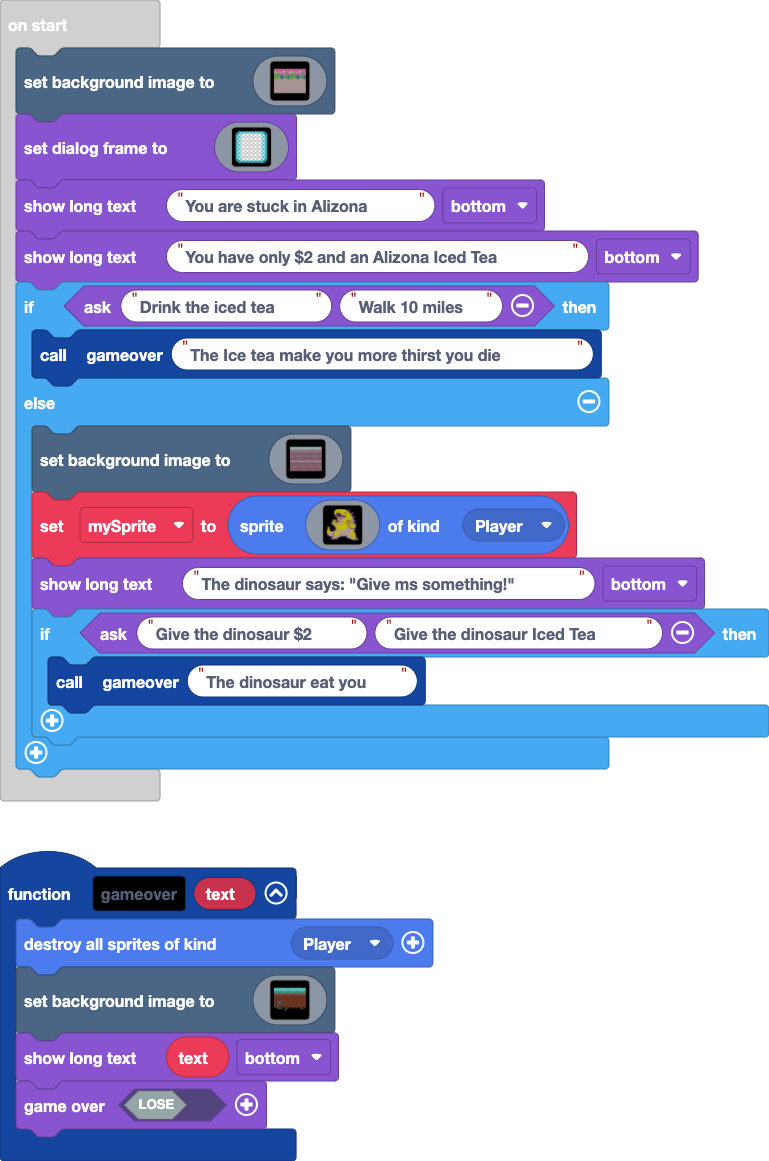
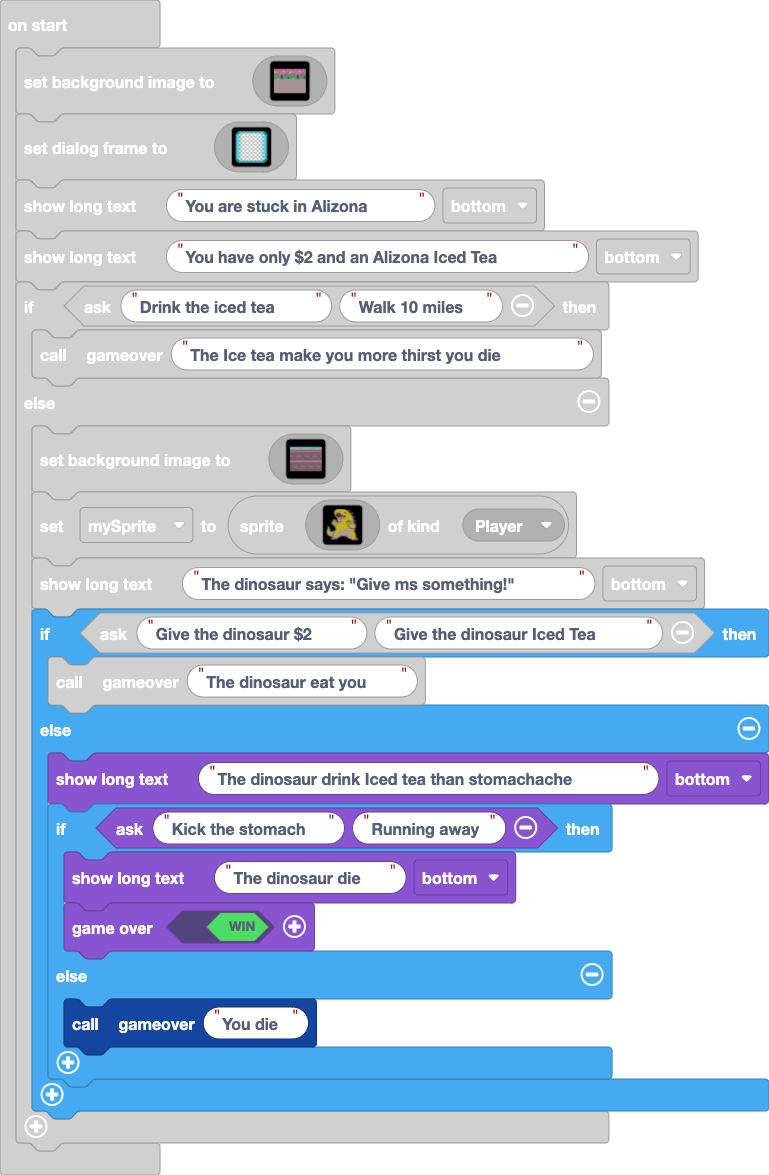
Finish the game

diff --git a/main.ts b/main.ts
@@ -482,5 +482,13 @@ if (game.ask("Drink the iced tea", "Walk 10 miles")) {
     game.showLongText("The dinosaur says: \"Give ms something!\"", DialogLayout.Bottom)
     if (game.ask("Give the dinosaur $2", "Give the dinosaur Iced Tea")) {
         gameover("The dinosaur eat you")
+    } else {
+        game.showLongText("The dinosaur drink Iced tea than stomachache", DialogLayout.Bottom)
+        if (game.ask("Kick the stomach", "Running away")) {
+            game.showLongText("The dinosaur die", DialogLayout.Bottom)
+            game.over(true)
+        } else {
+            gameover("You die")
+        }
     }
 }
